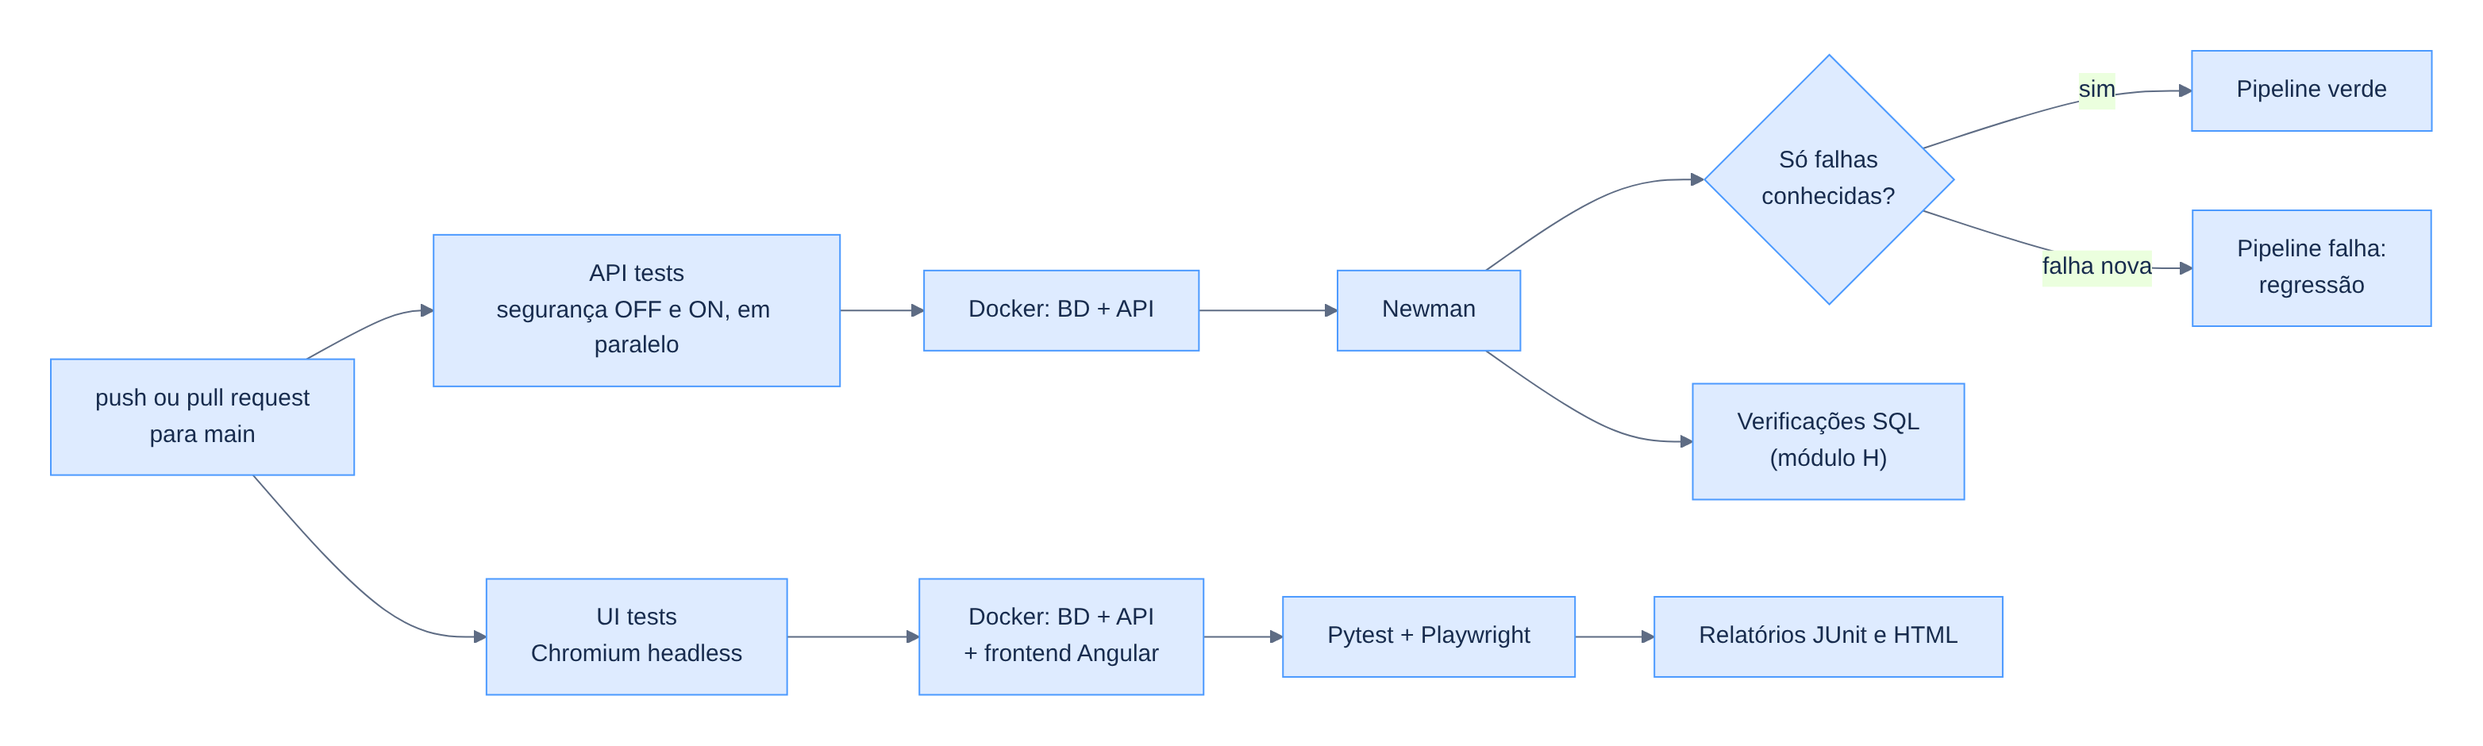
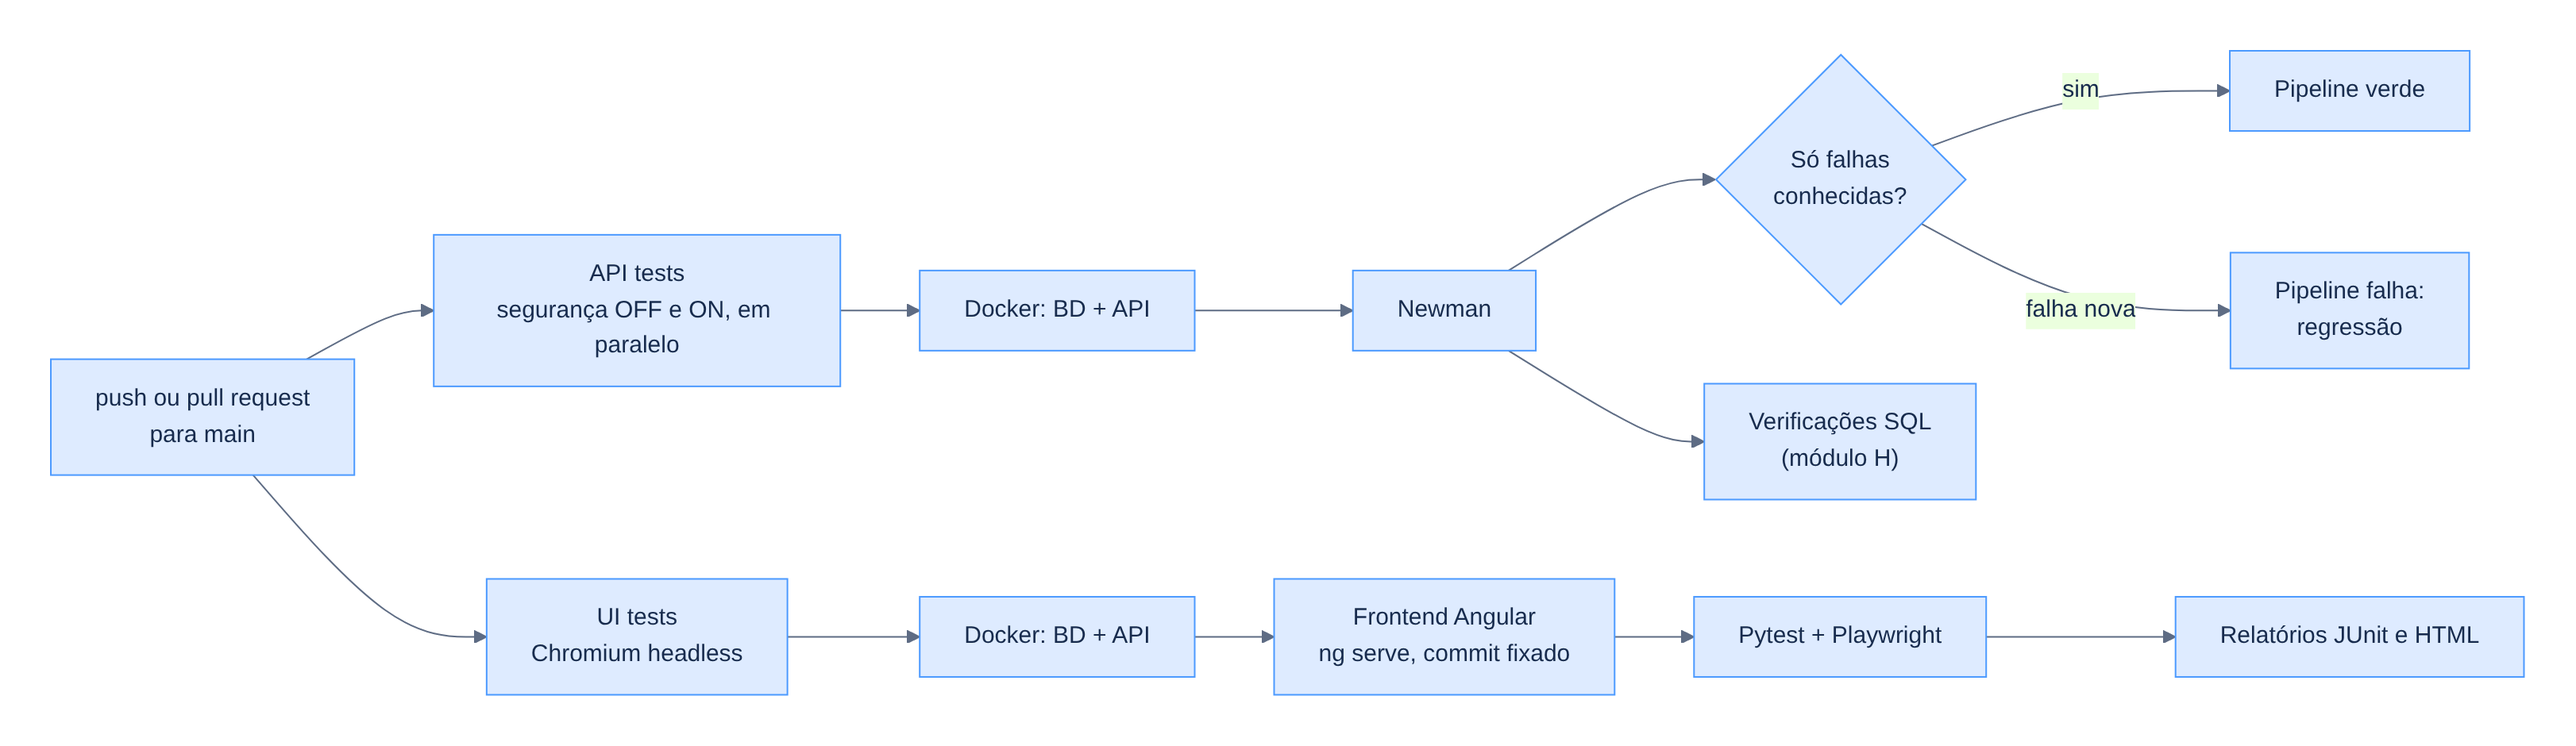
docs: alinhar Test Plan, Test Design, Test Results e README com o Confluence

diff --git a/docs/test-plan.md b/docs/test-plan.md
@@ -31,7 +31,7 @@ Este documento define o plano de testes para o Spring PetClinic REST, uma aplica
 - Testes funcionais e de UI/UX (manuais) executados através da interface Angular (localhost:4200), cobrindo navegação, formulários e consistência visual, complementados por testes de API e validação direta na base de dados para as mesmas regras de negócio.
 
 **Fora do escopo (nesta fase):**
-- Testes de performance/carga (JMeter) — o projeto já disponibiliza um plano JMeter oficial, mas fica documentado como extensão futura, após aprendizagem dedicada de JMeter/BlazeMeter (prioridade de 2026)
+- Testes de performance/carga (JMeter) — o projeto já disponibiliza um plano JMeter oficial, mas fica documentado como extensão futura, após aprendizagem dedicada de JMeter/BlazeMeter
 - Testes de penetração/segurança ofensiva aprofundados (apenas controlo de acesso funcional está incluído, não pentesting)
 - Internacionalização/localização
 - Testes de compatibilidade cross-browser além do Chrome (pode ser considerado como extensão futura)
@@ -86,11 +86,11 @@ Este documento define o plano de testes para o Spring PetClinic REST, uma aplica
 
 ### 8. Ambiente de Teste
 
-- **Aplicação:** Spring PetClinic REST, corrida via Docker (`docker-compose --profile postgres up`)
-- Front-end: Spring PetClinic Angular, servido via Vite dev server em container Node (node:22), acessível em http://localhost:4200. O ambiente completo (backend + PostgreSQL + front-end) corre através de um único docker-compose.yml, com os três serviços na mesma rede Docker.
-- **Base de dados:** PostgreSQL 16 (containerizado)
-- **Documentação da API:** Swagger UI (`/petclinic/swagger-ui.html`) e OpenAPI spec
-- **Ferramentas:** Postman (API), Playwright + Python (UI), pgAdmin ou DBeaver (SQL), Jira (bugs), Confluence (documentação), GitHub + GitHub Actions (versionamento e CI)
+- **Aplicação:** Spring PetClinic REST, corrida via Docker (`docker compose up -d`, na pasta `docker/`)
+- Front-end: Spring PetClinic Angular, servido com `ng serve` em container Node (node:22), acessível em http://localhost:4200. O ambiente completo (backend + PostgreSQL + front-end) corre através de um único docker-compose.yml, com os três serviços na mesma rede Docker.
+- **Base de dados:** PostgreSQL 16.3 (containerizado)
+- **Documentação da API:** Swagger UI (`/petclinic/swagger-ui/index.html`) e OpenAPI spec
+- **Ferramentas:** Postman + Newman (API), Playwright + Python + Pytest (UI), psql (SQL), Jira + AIO Tests (casos de teste e bugs), Confluence (documentação), GitHub + GitHub Actions (versionamento e CI)
 
 ### 9. Entregáveis de Teste
 
@@ -119,8 +119,8 @@ Como projeto individual, assumo os três papéis normalmente distribuídos numa 
 | 4 ✅   | Automação de UI — setup Playwright + POM sobre fluxos críticos |
 | 5 ✅   | Automação de UI (continuação) + testes de API (Postman), incluindo autorização |
 | 6 ✅   | Validação de dados (SQL/PostgreSQL) + consolidação da suite de automação |
-| 7 🔄   | Containerização (Docker) + pipeline de CI (GitHub Actions) |
-| 8      | Documentação final (Confluence) + relatório final + apresentação final |
+| 7 ✅   | Containerização (Docker) + pipeline de CI (GitHub Actions) |
+| 8 ✅   | Documentação final (Confluence) + relatório final + apresentação final |
 
 ### 12. Riscos e Contingências
 
@@ -134,7 +134,7 @@ Como projeto individual, assumo os três papéis normalmente distribuídos numa 
 
 ### 13. Ferramentas — Resumo
 
-Python, Playwright, Postman, PostgreSQL/SQL, Jira, Confluence, GitHub, GitHub Actions, Docker.
+Python, Playwright, Pytest, Postman, Newman, PostgreSQL/SQL, Jira, AIO Tests, Confluence, GitHub, GitHub Actions, Docker.
 
 ### 14. Test Data Management
 

diff --git a/docs/test-design.md b/docs/test-design.md
@@ -1,6 +1,6 @@
 # Test Design · Spring PetClinic REST
 ### Projeto de Portfólio QA (PAC) · Parte 2 de 2 (Semana 2)
-**Autor:** Ricardo Peres | **Produto sob teste:** Spring PetClinic REST e Spring PetClinic Angular| **Data:** Setembro 2026
+**Autor:** Ricardo Peres | **Produto sob teste:** Spring PetClinic REST e Spring PetClinic Angular | **Data:** Setembro 2026
 
 ---
 
@@ -92,7 +92,7 @@
 3. Validar unicidade de campos que deveriam ser únicos (username, etc.)
 4. Validar constraints da BD (NOT NULL, tamanho de campos) vs regras da API
 5. Validar consistência entre resposta da API e dados persistidos na BD após cada operação CRUD
-6. Validar que os dados inseridos via UI persistem corretamente após reinício do ambiente Docker (não há perda de estado) — ✅ confirmado: pet "parrot" adicionado permaneceu após reinício via Docker
+6. Validar que os dados inseridos via UI persistem corretamente após reinício do ambiente Docker (não há perda de estado)
 
 ### I. Transversal — Validações de API
 

diff --git a/README.md b/README.md
@@ -225,7 +225,7 @@ flowchart LR
     A3 -->|sim| OK["Pipeline verde"]
     A3 -->|falha nova| KO["Pipeline falha:<br/>regressão"]
     A2 --> A4["Verificações SQL<br/>(módulo H)"]
-    U --> U1["Docker: BD + API<br/>+ frontend Angular"] --> U2["Pytest + Playwright"] --> U3["Relatórios JUnit e HTML"]
+    U --> U1["Docker: BD + API"] --> U1b["Frontend Angular<br/>ng serve, commit fixado"] --> U2["Pytest + Playwright"] --> U3["Relatórios JUnit e HTML"]
 ```
 
 **O problema:** a suite tem testes que falham de propósito, porque documentam bugs abertos. Um pipeline que falha sempre deixa de ser lido; um que ignora todas as falhas esconde regressões.
